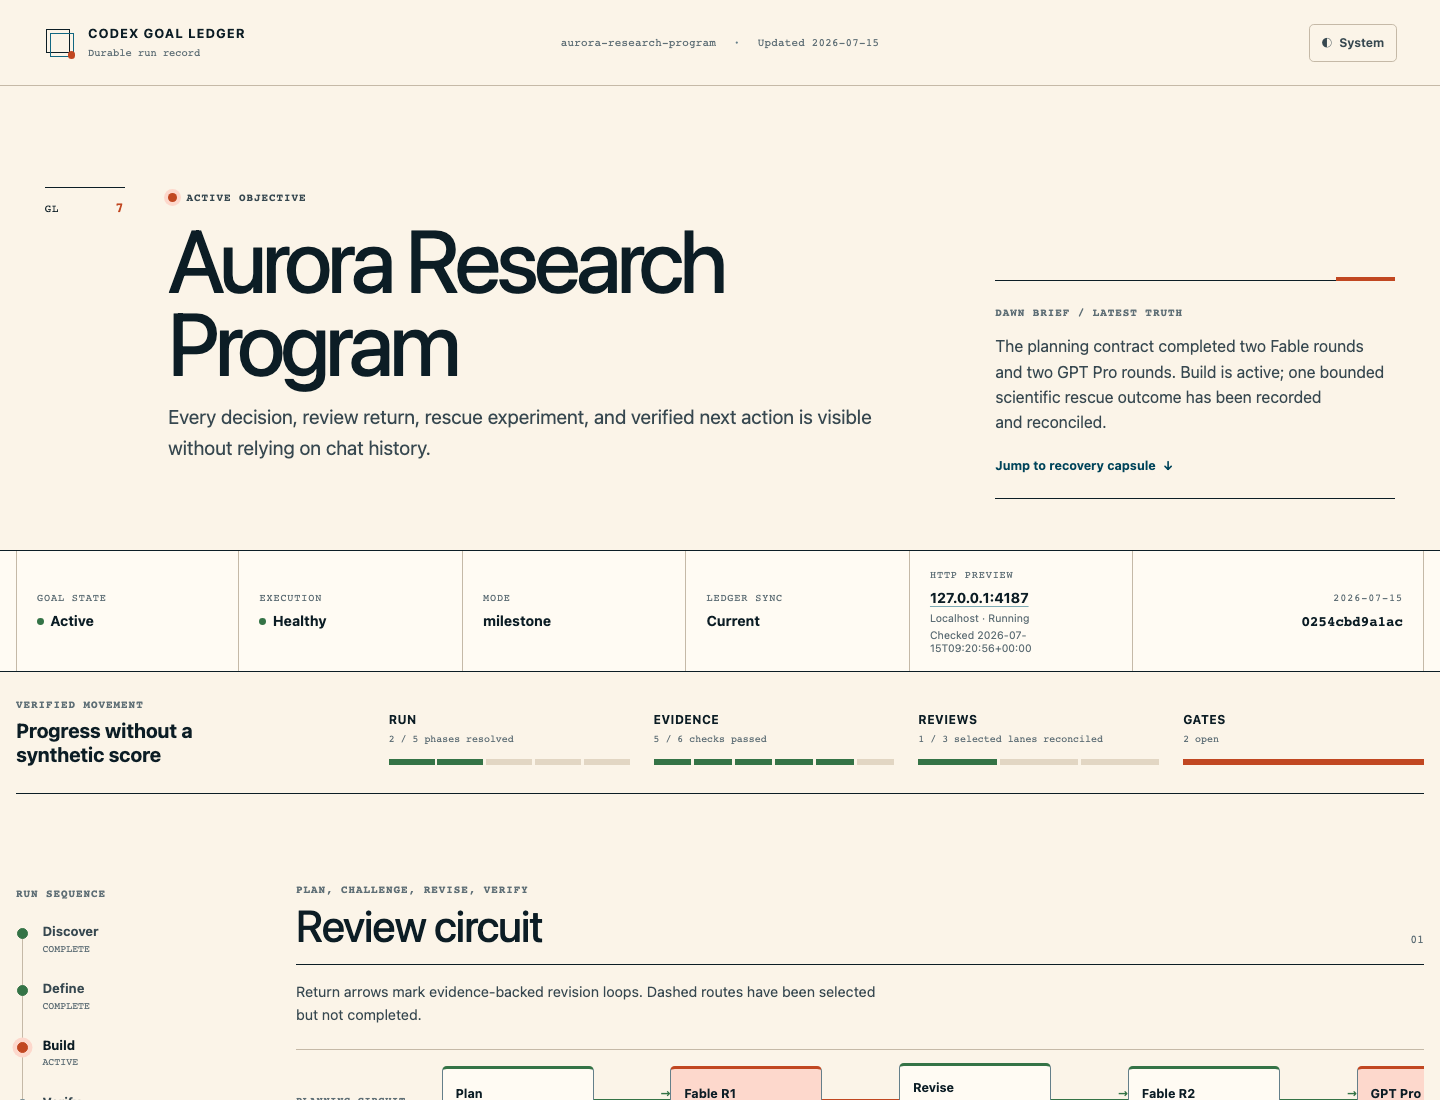
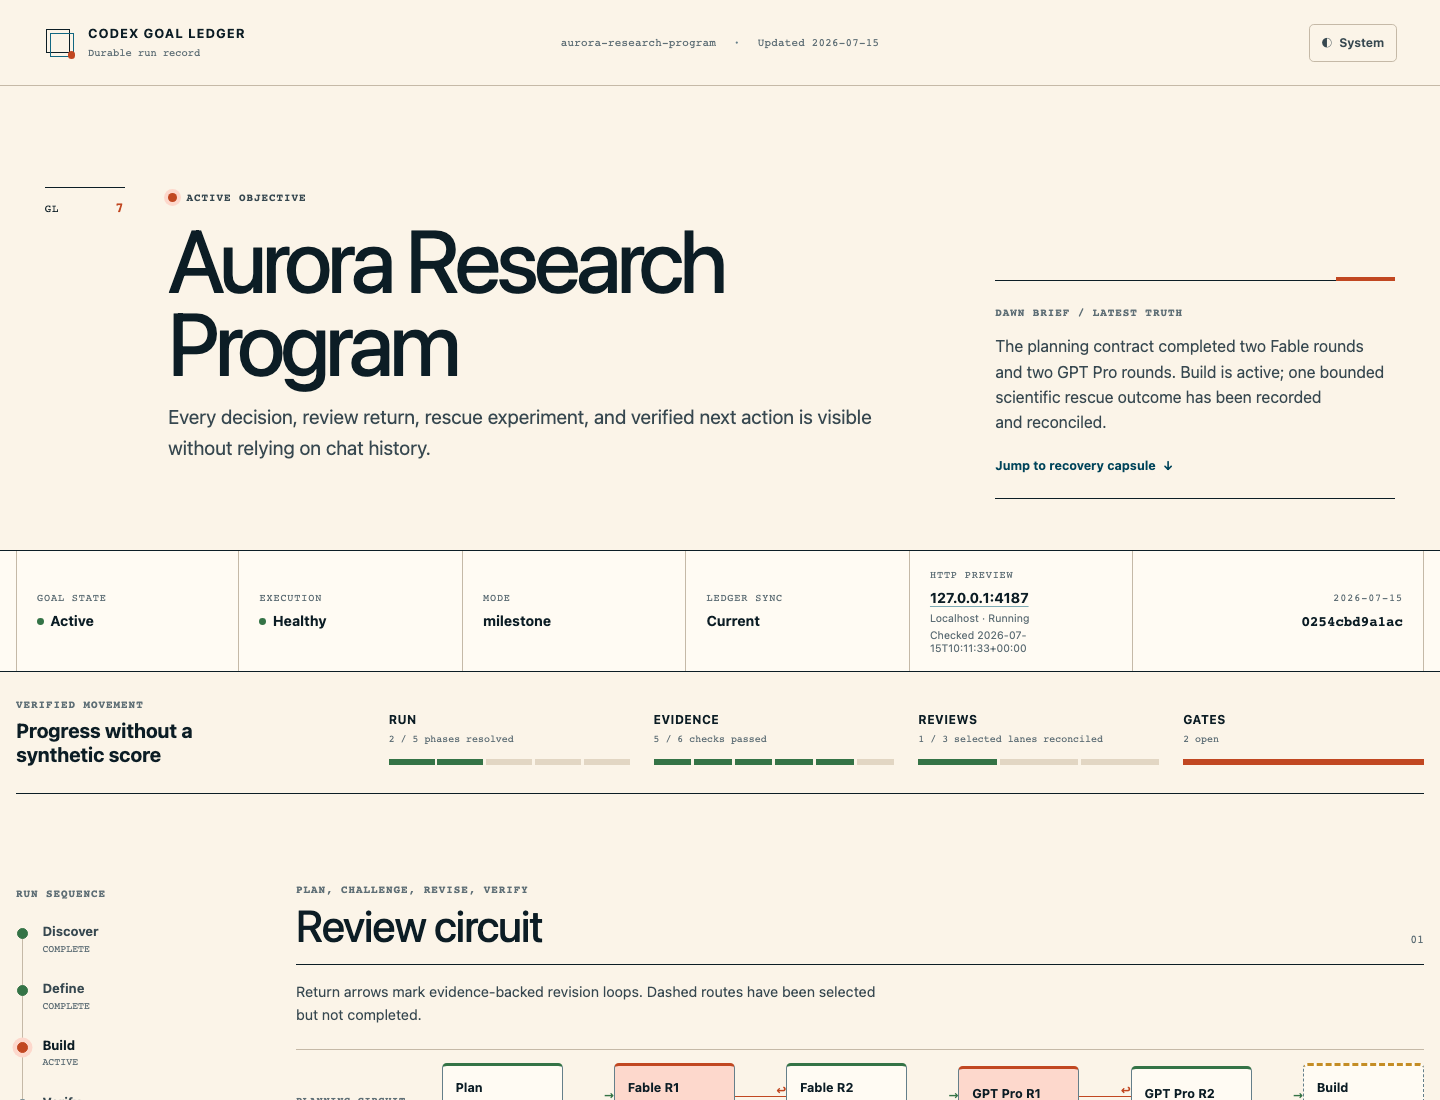
Fix responsive review circuit layout

Changed region(s): [[0.3125, 0.9582, 0.8438, 1.0], [0.875, 0.9582, 1.0, 1.0], [0.6562, 0.5873, 0.7188, 0.6182]]

diff --git a/assets/goal-ledger.css b/assets/goal-ledger.css
@@ -718,17 +718,16 @@ h1 {
 
 .review-circuit-scroll {
   max-width: 100%;
-  overflow-x: auto;
+  overflow-x: visible;
   padding-block-end: 0.65rem;
-  scrollbar-gutter: stable;
 }
 
 .review-lane {
-  min-width: max-content;
+  min-width: 100%;
   padding: 0.8rem 0 1rem;
   border-block-start: 1px solid var(--rule);
   display: grid;
-  grid-template-columns: 8rem auto;
+  grid-template-columns: clamp(6rem, 9vw, 8rem) minmax(0, 1fr);
   gap: 1.1rem;
   align-items: center;
 }
@@ -747,6 +746,8 @@ h1 {
 }
 
 .review-lane ol {
+  width: 100%;
+  min-width: 0;
   margin: 0;
   padding: 0;
   list-style: none;
@@ -754,9 +755,14 @@ h1 {
   align-items: center;
 }
 
+.review-node {
+  min-width: 5.75rem;
+  flex: 1 1 0;
+}
+
 .review-node > a,
 .review-node > span {
-  width: 9.5rem;
+  width: 100%;
   min-height: 4.4rem;
   padding: 0.75rem 0.8rem;
   border: 1px solid var(--rule-strong);
@@ -818,7 +824,9 @@ h1 {
 }
 
 .review-edge {
-  width: 4.8rem;
+  width: auto;
+  min-width: 2rem;
+  flex: 0 1 3.2rem;
   color: var(--mineral);
   display: grid;
   justify-items: center;
@@ -839,7 +847,48 @@ h1 {
   font-family: var(--font-mono);
   font-size: 0.52rem;
   text-align: center;
-  white-space: nowrap;
+  line-height: 1.2;
+  white-space: normal;
+}
+
+.review-lane[data-layout="stacked"] {
+  min-width: 0;
+  grid-template-columns: minmax(0, 1fr);
+  align-items: start;
+}
+
+.review-lane[data-layout="stacked"] ol {
+  flex-direction: column;
+  align-items: stretch;
+}
+
+.review-lane[data-layout="stacked"] .review-node {
+  width: 100%;
+  min-width: 0;
+}
+
+.review-lane[data-layout="stacked"] .review-edge {
+  width: 100%;
+  min-height: 2.5rem;
+  display: flex;
+  flex-direction: column;
+  align-items: center;
+  justify-content: center;
+}
+
+.review-lane[data-layout="stacked"] .review-edge > span {
+  width: auto;
+  border: 0;
+  font-size: 0;
+}
+
+.review-lane[data-layout="stacked"] .review-edge > span::after {
+  content: "↓";
+  font-size: 0.95rem;
+}
+
+.review-lane[data-layout="stacked"] .review-edge[data-direction="return"] > span::after {
+  content: "↩";
 }
 
 .review-edge[data-state="pending"] > span {
@@ -1575,6 +1624,50 @@ footer p {
   .progress-band-heading h2 {
     max-width: none;
   }
+
+  .review-circuit-scroll {
+    overflow-x: visible;
+  }
+
+  .review-lane {
+    min-width: 0;
+    grid-template-columns: minmax(0, 1fr);
+    align-items: start;
+  }
+
+  .review-lane ol {
+    flex-direction: column;
+    align-items: stretch;
+  }
+
+  .review-node {
+    width: 100%;
+    min-width: 0;
+  }
+
+  .review-edge {
+    width: 100%;
+    min-height: 2.5rem;
+    display: flex;
+    flex-direction: column;
+    align-items: center;
+    justify-content: center;
+  }
+
+  .review-edge > span {
+    width: auto;
+    border: 0;
+    font-size: 0;
+  }
+
+  .review-edge > span::after {
+    content: "↓";
+    font-size: 0.95rem;
+  }
+
+  .review-edge[data-direction="return"] > span::after {
+    content: "↩";
+  }
 }
 
 @media (max-width: 54rem) {
@@ -1760,17 +1853,17 @@ footer p {
   }
 
   .review-lane {
-    grid-template-columns: 6.4rem auto;
+    grid-template-columns: minmax(0, 1fr);
     gap: 0.65rem;
   }
 
   .review-node > a,
   .review-node > span {
-    width: 8rem;
+    width: 100%;
   }
 
   .review-edge {
-    width: 3.4rem;
+    width: 100%;
   }
 
   .section-heading {

diff --git a/scripts/review_graph.py b/scripts/review_graph.py
@@ -161,23 +161,6 @@ def _sequence_edges(nodes: list[ReviewNode]) -> tuple[ReviewEdge, ...]:
     return tuple(_edge_for_state(node.state) for node in nodes[:-1])
 
 
-def _with_revision_nodes(nodes: list[ReviewNode], lane: str) -> list[ReviewNode]:
-    expanded: list[ReviewNode] = []
-    for index, node in enumerate(nodes):
-        expanded.append(node)
-        if node.state in {"blocked", "revise"} and index < len(nodes) - 1:
-            expanded.append(
-                ReviewNode(
-                    f"revision-{lane}-{index + 1}",
-                    "Revise",
-                    "Verified fixes before re-review",
-                    "complete",
-                    "#activity",
-                )
-            )
-    return expanded
-
-
 def build_review_lanes(
     goal_dir: Path,
     goal: Document,
@@ -190,12 +173,8 @@ def build_review_lanes(
     verification = _verification_map(verification_rows)
 
     planning = [ReviewNode("plan", "Plan", "Canonical contract", "complete", "#source")]
-    planning.extend(
-        _with_revision_nodes(_fable_nodes(goal_dir, goal, fable_selected), "fable")
-    )
-    planning.extend(
-        _with_revision_nodes(_pro_nodes(goal_dir, goal, pro_selected, "plan"), "pro-plan")
-    )
+    planning.extend(_fable_nodes(goal_dir, goal, fable_selected))
+    planning.extend(_pro_nodes(goal_dir, goal, pro_selected, "plan"))
     planning.append(ReviewNode("build", "Build", "Implementation gate", "pending", "#activity"))
 
     rescue = [ReviewNode("build-rescue", "Build", "Scientific work", "active", "#activity")]
@@ -204,11 +183,7 @@ def build_review_lanes(
     rescue.append(ReviewNode("return-build", "Return to build", "Apply verified learning", "pending", "#activity"))
 
     closeout = [ReviewNode("verify", "Verify", "Evidence gate", "pending", "#activity")]
-    closeout.extend(
-        _with_revision_nodes(
-            _pro_nodes(goal_dir, goal, pro_selected, "implementation"), "pro-implementation"
-        )
-    )
+    closeout.extend(_pro_nodes(goal_dir, goal, pro_selected, "implementation"))
     if codex_selected:
         codex_state = verification.get("Additional Codex review", "pending")
         closeout.append(

diff --git a/scripts/test_review_graph.py b/scripts/test_review_graph.py
@@ -169,15 +169,20 @@ class ReviewGraphTests(unittest.TestCase):
         html = first.decode("utf-8")
         self.assertIn("GPT Pro R1", html)
         self.assertIn("GPT Pro R2", html)
-        self.assertIn("Verified fixes before re-review", html)
+        self.assertNotIn("Verified fixes before re-review", html)
+        self.assertIn("return for revision", html)
         self.assertIn('data-direction="return"', html)
+        self.assertIn('data-layout="inline"', html)
         self.assertIn("1 / 1 selected lanes reconciled", html)
         self.assertNotIn("COMPLETION_PERCENT", html)
 
-    def test_dashboard_css_keeps_mobile_graph_scroll_and_reduced_motion(self) -> None:
+    def test_dashboard_css_keeps_review_graph_responsive_and_reduced_motion(self) -> None:
         css = (SCRIPT_DIR.parent / "assets" / "goal-ledger.css").read_text()
         self.assertIn(".review-circuit-scroll", css)
-        self.assertIn("overflow-x: auto", css)
+        self.assertIn("overflow-x: visible", css)
+        self.assertIn('.review-lane[data-layout="stacked"]', css)
+        self.assertIn("grid-template-columns: clamp(6rem, 9vw, 8rem) minmax(0, 1fr)", css)
+        self.assertNotIn("min-width: max-content", css)
         self.assertIn("@media (prefers-reduced-motion: reduce)", css)
 
 

diff --git a/scripts/render_goal.py b/scripts/render_goal.py
@@ -172,6 +172,7 @@ def _phase_rail(rows: list[list[str]]) -> str:
 def _review_graph_html(lanes: tuple[object, ...]) -> str:
     rendered: list[str] = []
     for lane in lanes:
+        layout = "stacked" if len(lane.nodes) > 6 else "inline"
         sequence: list[str] = []
         for index, node in enumerate(lane.nodes):
             content = (
@@ -200,7 +201,8 @@ def _review_graph_html(lanes: tuple[object, ...]) -> str:
                     f'<span aria-hidden="true">{arrow}</span><small>{escape(edge.label)}</small></li>'
                 )
         rendered.append(
-            f'<section class="review-lane" aria-labelledby="review-lane-{escape(lane.key, quote=True)}">'
+            f'<section class="review-lane" data-layout="{layout}" '
+            f'aria-labelledby="review-lane-{escape(lane.key, quote=True)}">'
             f'<h3 id="review-lane-{escape(lane.key, quote=True)}">{escape(lane.label)}</h3>'
             f'<ol>{"".join(sequence)}</ol></section>'
         )